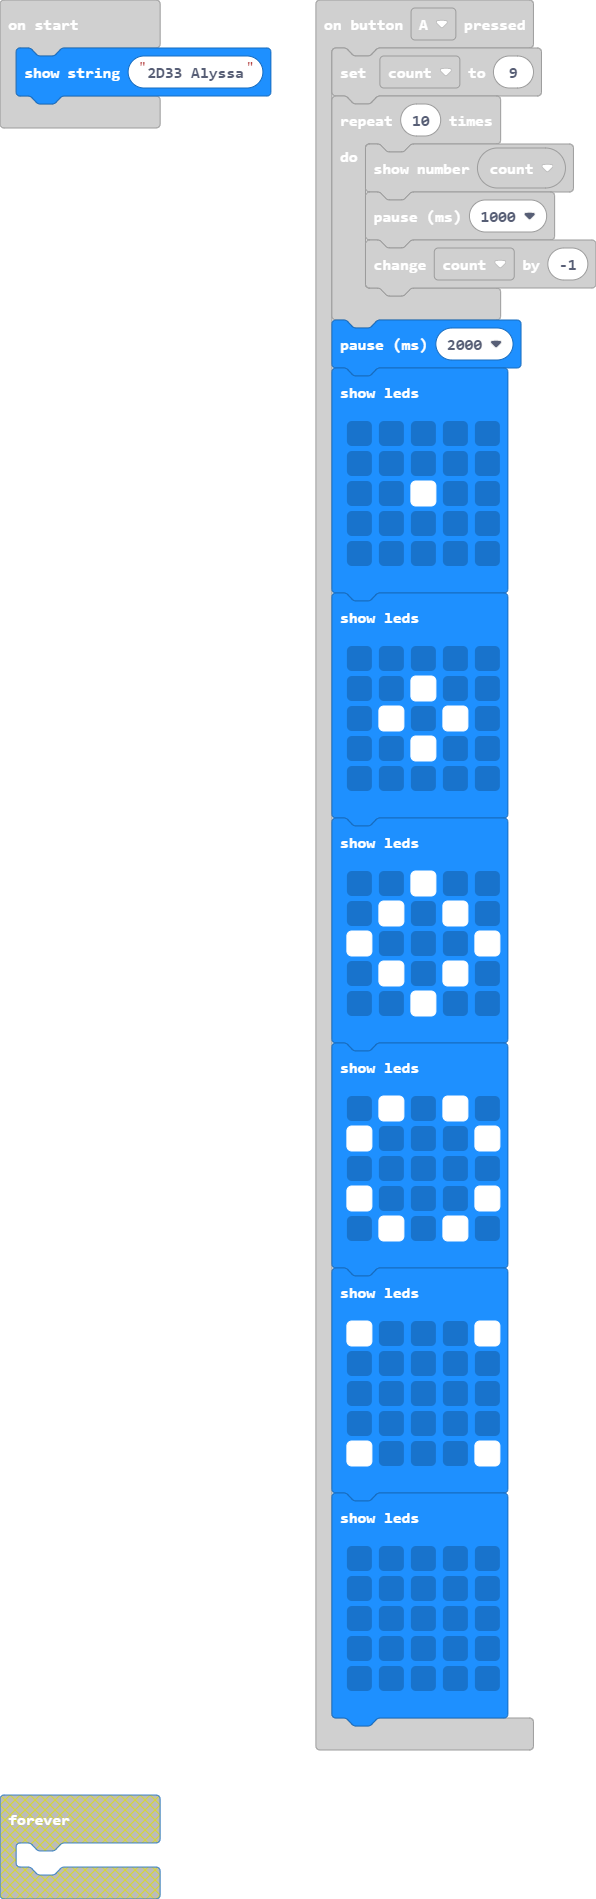
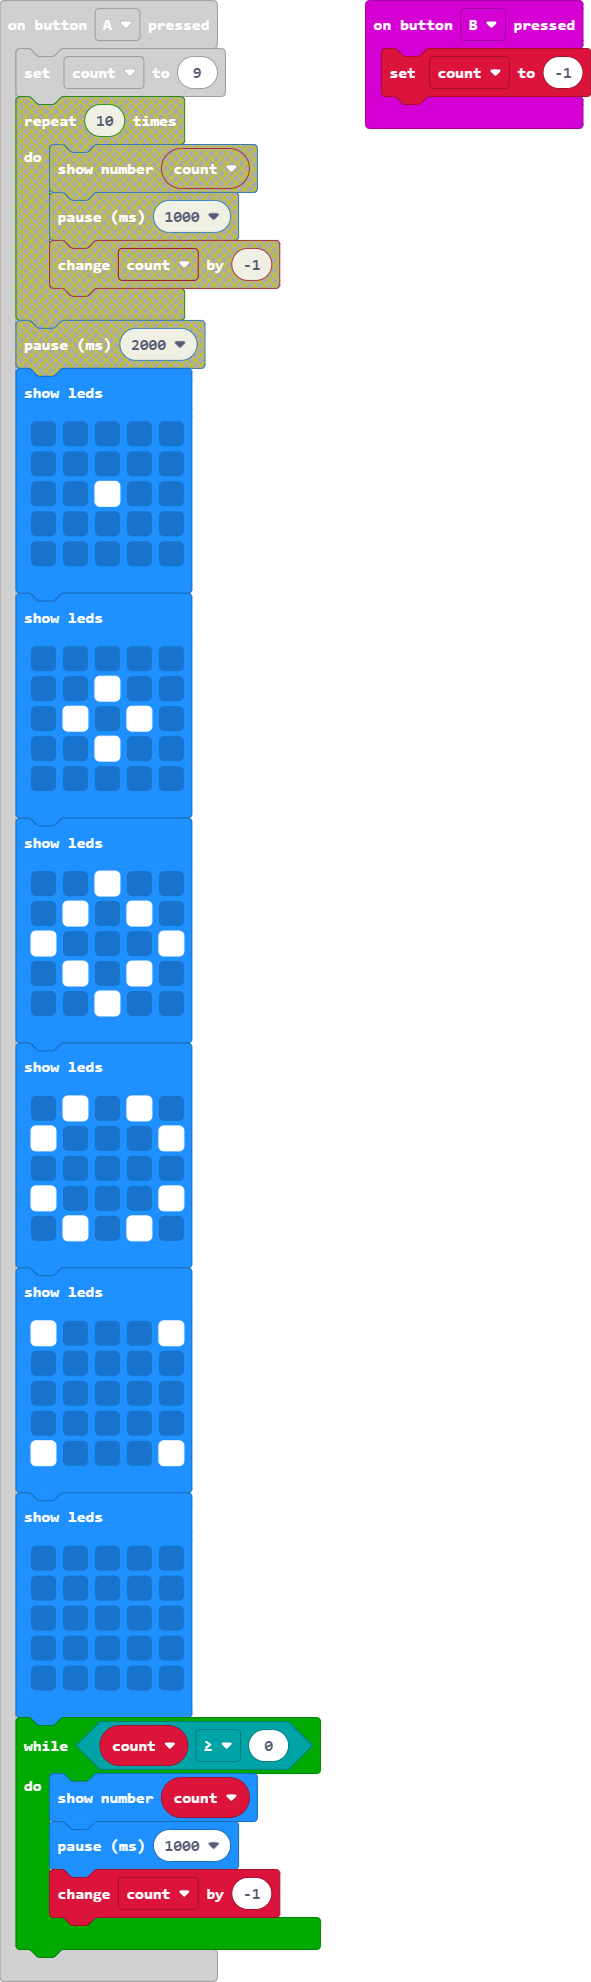
Update main.blocks, main.ts

diff --git a/main.ts b/main.ts
@@ -1,11 +1,10 @@
 input.onButtonPressed(Button.A, function () {
     count = 9
-    for (let index = 0; index < 10; index++) {
+    while (count >= 0) {
         basic.showNumber(count)
         basic.pause(1000)
         count += -1
     }
-    basic.pause(2000)
     basic.showLeds(`
         . . . . .
         . . . . .
@@ -48,6 +47,9 @@ input.onButtonPressed(Button.A, function () {
         . . . . .
         . . . . .
         `)
+})
+input.onButtonPressed(Button.B, function () {
+    count = -1
 })
 let count = 0
 basic.showString("2D33 Alyssa")
